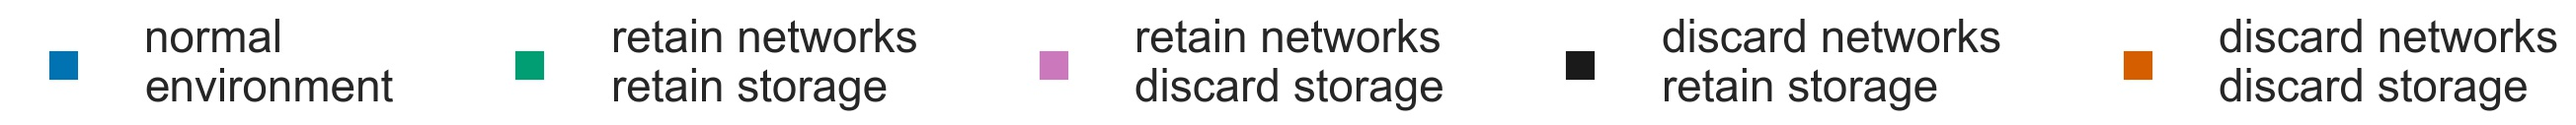
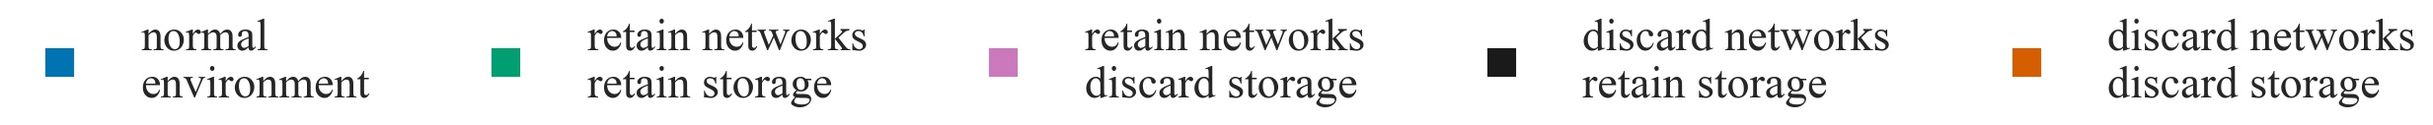
udpates to match paper submission

diff --git a/plot/paper/paper.py b/plot/paper/paper.py
@@ -1,11 +1,11 @@
 import os
+import pathlib
 
-import matplotlib
 import matplotlib.pyplot as plt
 import pandas as pd
 import seaborn as sns
-from termcolor import colored
 from matplotlib.patches import ConnectionPatch
+from termcolor import colored
 
 sns.set_theme()
 sns.set_palette("colorblind", color_codes=True)
@@ -13,10 +13,13 @@ sns.set_palette("colorblind", color_codes=True)
 LARGE = 16
 MEDIUM = 14
 
-plt.rc('axes', titlesize=LARGE)     # fontsize of the axes title
-plt.rc('axes', labelsize=LARGE)    # fontsize of the x and y labels
-plt.rc('xtick', labelsize=MEDIUM)    # fontsize of the tick labels
-plt.rc('ytick', labelsize=MEDIUM)    # fontsize of the tick labels
+plt.rc("axes", titlesize=LARGE)     # fontsize of the axes title
+plt.rc("axes", labelsize=LARGE)     # fontsize of the x and y labels
+plt.rc("xtick", labelsize=MEDIUM)   # fontsize of the tick labels
+plt.rc("ytick", labelsize=MEDIUM)   # fontsize of the tick labels
+plt.rcParams['pdf.fonttype'] = 42
+plt.rcParams['ps.fonttype'] = 42
+plt.rcParams["font.family"] = "Times New Roman"
 
 
 def plot_experiment(directory):
@@ -440,7 +443,7 @@ def plot_experiment(directory):
 def legend():
 
     fig, ax = plt.subplots()
-    ax.axis('off')
+    ax.axis("off")
 
     colors = ["b", "g", "m", "k", "r"]
     f = lambda m, c: plt.plot([], [], marker=m, color=c, ls="none")[0]
@@ -462,16 +465,19 @@ if __name__ == "__main__":
 
     legend()
 
-    """ant"""
+    PROJECT_PATH = pathlib.Path(os.getcwd()).parents[1]
+    DATA_FOLDER_PATH = os.path.join(PROJECT_PATH, "data")
 
     # number of seeds to plot
-    num_seeds = 10
+    num_seeds = 30
 
-    # confidence interval z value for 9 degrees of freedom (10 seeds)
-    CI_Z = 2.262
+    # confidence interval z value for 29 degrees of freedom (30 seeds)
+    CI_Z = 2.045
 
     # if True, plot 95% confidence interval; if False, plot standard error
-    ci = False
+    ci = True
+
+    """ant"""
 
     # global for Ant
     env_name = "ant"
@@ -487,18 +493,14 @@ if __name__ == "__main__":
     xmax = 1200
 
     # local for Ant PPO
-    ppo_data_dir = "/media/sschoepp/easystore/shared/ant/faulty/ppo"
+    ppo_data_dir = DATA_FOLDER_PATH + "/ant/faulty/ppo"
 
     # v1
 
     zoom_init_xmin = 600
     zoom_init_xmax = 660
-    zoom_final_xmin = 1140
-    zoom_final_xmax = 1200
     zoom_init_ymin = ymin
     zoom_init_ymax = ymax
-    zoom_final_ymin = 5000
-    zoom_final_ymax = 8000
 
     plot_experiment(os.path.join(ppo_data_dir, "v1"))
 
@@ -506,12 +508,8 @@ if __name__ == "__main__":
 
     zoom_init_xmin = 600
     zoom_init_xmax = 660
-    zoom_final_xmin = 1140
-    zoom_final_xmax = 1200
     zoom_init_ymin = ymin
     zoom_init_ymax = ymax
-    zoom_final_ymin = 5000
-    zoom_final_ymax = 8000
 
     plot_experiment(os.path.join(ppo_data_dir, "v2"))
 
@@ -519,12 +517,8 @@ if __name__ == "__main__":
 
     zoom_init_xmin = 600
     zoom_init_xmax = 660
-    zoom_final_xmin = 1140
-    zoom_final_xmax = 1200
     zoom_init_ymin = ymin
     zoom_init_ymax = ymax
-    zoom_final_ymin = 5000
-    zoom_final_ymax = 8000
 
     plot_experiment(os.path.join(ppo_data_dir, "v3"))
 
@@ -532,12 +526,8 @@ if __name__ == "__main__":
 
     zoom_init_xmin = 600
     zoom_init_xmax = 660
-    zoom_final_xmin = 1140
-    zoom_final_xmax = 1200
     zoom_init_ymin = ymin
     zoom_init_ymax = ymax
-    zoom_final_ymin = 5000
-    zoom_final_ymax = 8000
 
     plot_experiment(os.path.join(ppo_data_dir, "v4"))
 
@@ -548,18 +538,14 @@ if __name__ == "__main__":
     xmax = 40
 
     # local for Ant SAC
-    sac_data_dir = "/media/sschoepp/easystore/shared/ant/faulty/sac"
+    sac_data_dir = DATA_FOLDER_PATH + "/ant/faulty/sac"
 
     # v1
 
     zoom_init_xmin = 20
     zoom_init_xmax = 22
-    zoom_final_xmin = 38
-    zoom_final_xmax = 40
     zoom_init_ymin = ymin
     zoom_init_ymax = ymax
-    zoom_final_ymin = 5000
-    zoom_final_ymax = 8000
 
     plot_experiment(os.path.join(sac_data_dir, "v1"))
 
@@ -567,12 +553,8 @@ if __name__ == "__main__":
 
     zoom_init_xmin = 20
     zoom_init_xmax = 22
-    zoom_final_xmin = 38
-    zoom_final_xmax = 40
     zoom_init_ymin = ymin
     zoom_init_ymax = ymax
-    zoom_final_ymin = 5000
-    zoom_final_ymax = 8000
 
     plot_experiment(os.path.join(sac_data_dir, "v2"))
 
@@ -580,12 +562,8 @@ if __name__ == "__main__":
 
     zoom_init_xmin = 20
     zoom_init_xmax = 22
-    zoom_final_xmin = 38
-    zoom_final_xmax = 40
     zoom_init_ymin = ymin
     zoom_init_ymax = ymax
-    zoom_final_ymin = 5000
-    zoom_final_ymax = 8000
 
     plot_experiment(os.path.join(sac_data_dir, "v3"))
 
@@ -593,25 +571,12 @@ if __name__ == "__main__":
 
     zoom_init_xmin = 20
     zoom_init_xmax = 22
-    zoom_final_xmin = 38
-    zoom_final_xmax = 40
     zoom_init_ymin = ymin
     zoom_init_ymax = ymax
-    zoom_final_ymin = 5000
-    zoom_final_ymax = 8000
 
     plot_experiment(os.path.join(sac_data_dir, "v4"))
 
     """fetchreach"""
-
-    # number of seeds to plot
-    num_seeds = 30
-
-    # confidence interval z value for 9 degrees of freedom (10 seeds)
-    CI_Z = 2.045
-
-    # if True, plot 95% confidence interval; if False, plot standard error
-    ci = True
 
     # global for FetchReach
     env_name = "fetchreach"
@@ -627,18 +592,14 @@ if __name__ == "__main__":
     xmax = 12
 
     # local for FetchReach PPO
-    ppo_data_dir = "/media/sschoepp/easystore/shared/fetchreach/seeds/faulty/ppo"
+    ppo_data_dir = DATA_FOLDER_PATH + "/fetchreach/faulty/ppo"
 
     # v1
 
     zoom_init_xmin = 6
     zoom_init_xmax = 6.15
-    zoom_final_xmin = 11.4
-    zoom_final_xmax = 12
     zoom_init_ymin = -12
     zoom_init_ymax = 1
-    zoom_final_ymin = -5
-    zoom_final_ymax = 5
 
     plot_experiment(os.path.join(ppo_data_dir, "v1"))
 
@@ -646,12 +607,8 @@ if __name__ == "__main__":
 
     zoom_init_xmin = 6
     zoom_init_xmax = 6.25
-    zoom_final_xmin = 11.4
-    zoom_final_xmax = 12
     zoom_init_ymin = -25
     zoom_init_ymax = 1
-    zoom_final_ymin = -5
-    zoom_final_ymax = 5
 
     plot_experiment(os.path.join(ppo_data_dir, "v4"))
 
@@ -659,12 +616,8 @@ if __name__ == "__main__":
 
     zoom_init_xmin = 6
     zoom_init_xmax = 6.25
-    zoom_final_xmin = 11.4
-    zoom_final_xmax = 12
     zoom_init_ymin = -25
     zoom_init_ymax = 1
-    zoom_final_ymin = -5
-    zoom_final_ymax = 5
 
     plot_experiment(os.path.join(ppo_data_dir, "v6"))
 
@@ -675,18 +628,14 @@ if __name__ == "__main__":
     xmax = 4
 
     # local for FetchReach SAC
-    sac_data_dir = "/media/sschoepp/easystore/shared/fetchreach/seeds/faulty/sac"
+    sac_data_dir = DATA_FOLDER_PATH + "/fetchreach/faulty/sac"
 
     # v1
 
     zoom_init_xmin = 2
     zoom_init_xmax = 2.5
-    zoom_final_xmin = 3.8
-    zoom_final_xmax = 4.0
     zoom_init_ymin = -12
     zoom_init_ymax = 1
-    zoom_final_ymin = -5
-    zoom_final_ymax = 5
 
     plot_experiment(os.path.join(sac_data_dir, "v1"))
 
@@ -694,12 +643,8 @@ if __name__ == "__main__":
 
     zoom_init_xmin = 2
     zoom_init_xmax = 2.1
-    zoom_final_xmin = 3.8
-    zoom_final_xmax = 4.0
     zoom_init_ymin = -25
     zoom_init_ymax = 1
-    zoom_final_ymin = -5
-    zoom_final_ymax = 5
 
     plot_experiment(os.path.join(sac_data_dir, "v4"))
 
@@ -707,11 +652,7 @@ if __name__ == "__main__":
 
     zoom_init_xmin = 2
     zoom_init_xmax = 2.1
-    zoom_final_xmin = 3.8
-    zoom_final_xmax = 4.0
     zoom_init_ymin = -25
     zoom_init_ymax = 1
-    zoom_final_ymin = -5
-    zoom_final_ymax = 5
 
     plot_experiment(os.path.join(sac_data_dir, "v6"))
